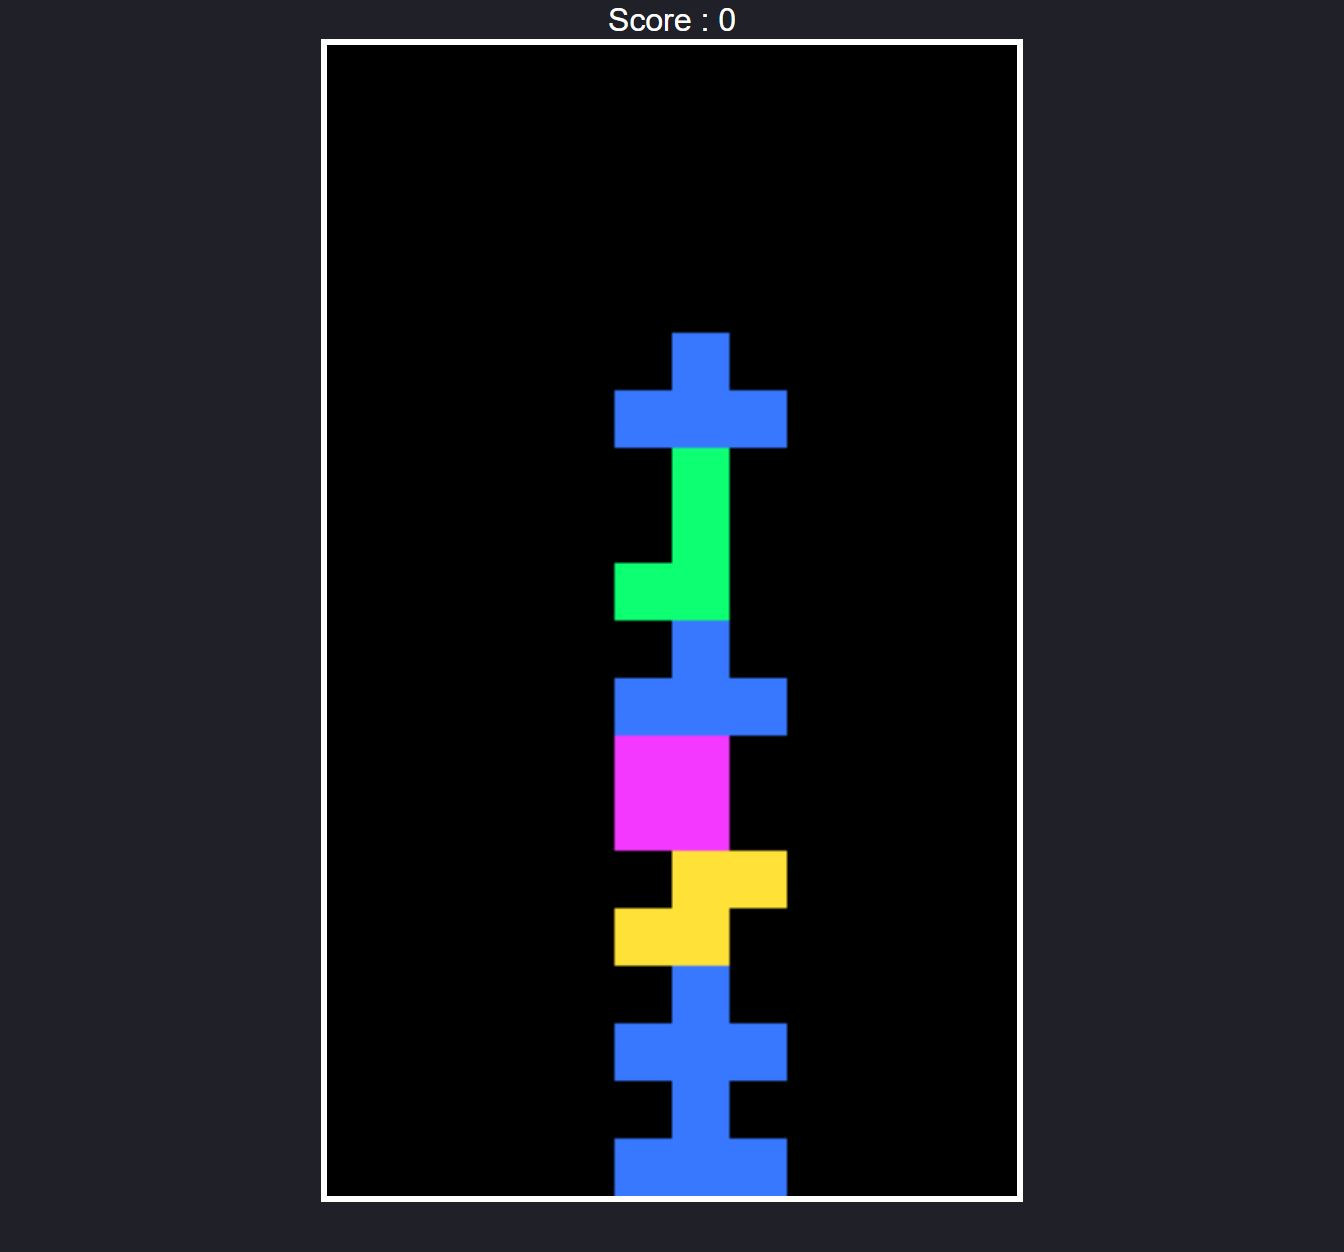
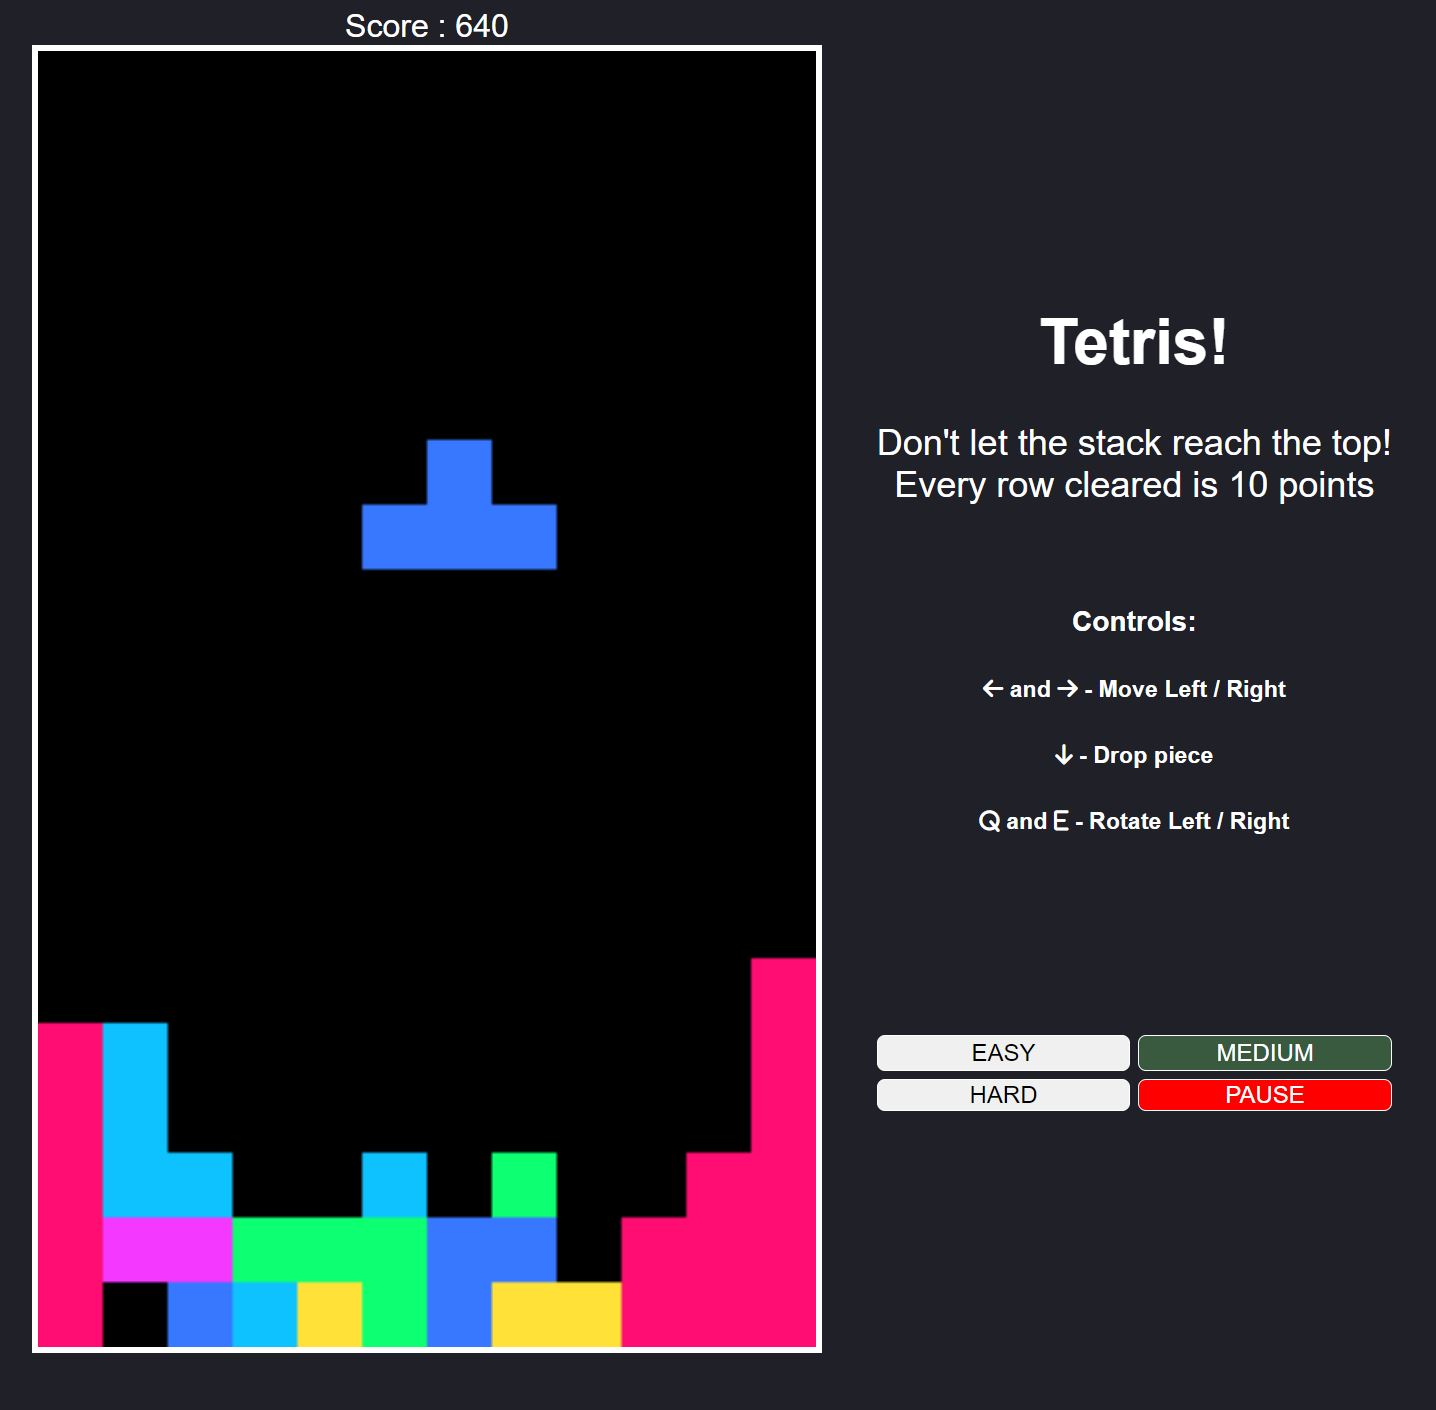
Added difficulty settings and pause button

diff --git a/Tetris/script.js b/Tetris/script.js
@@ -176,8 +176,9 @@ function playerRotate(dir) {
 }
 
 let dropCounter = 0;
-let dropInterval = 1000;
+let dropInterval = 500;
 let lastTime = 0;
+let paused = false;
 
 function update(time = 0) {
     const deltaTime = time - lastTime;
@@ -187,7 +188,9 @@ function update(time = 0) {
     }
     lastTime = time;
     draw();
-    requestAnimationFrame(update);
+    if (!paused) {
+        requestAnimationFrame(update);
+    }
 }
 
 function updateScore() {
@@ -197,14 +200,19 @@ function updateScore() {
 document.addEventListener("keydown", (event) => {
     if (event.keyCode === 37) {
         playerMove(-1);
+        //left arrow move left
     } else if (event.keyCode === 39) {
         playerMove(1);
+        //right arrow move right
     } else if (event.keyCode === 40) {
         playerDrop();
+        //down arrow move down
     } else if (event.keyCode === 81) {
         playerRotate(-1);
-    } else if (event.keyCode === 87) {
+        //Q key rotate left
+    } else if (event.keyCode === 69) {
         playerRotate(1);
+        //E key rotate right
     }
 });
 
@@ -229,3 +237,40 @@ const player = {
 playerReset();
 updateScore();
 update();
+
+const easy = document.getElementById("easy");
+const medium = document.getElementById("medium");
+const hard = document.getElementById("hard");
+const pause = document.getElementById("pause");
+
+easy.addEventListener("click", () => {
+    dropInterval = 1000;
+    easy.classList.add("active");
+    medium.classList.remove("active");
+    hard.classList.remove('active');
+});
+medium.addEventListener("click", () => {
+    dropInterval = 500;
+    easy.classList.remove("active");
+    medium.classList.add("active");
+    hard.classList.remove('active');
+});
+hard.addEventListener("click", () => {
+    dropInterval = 225;
+    easy.classList.remove("active");
+    medium.classList.remove("active");
+    hard.classList.add('active');
+});
+
+pause.addEventListener("click", () => {
+    if (pause.classList.contains("pause-active")) {
+        pause.classList.remove("pause-active");
+        pause.classList.add("pause-inactive");
+        paused = false;
+        update();
+    } else {
+        pause.classList.remove("pause-inactive");
+        pause.classList.add("pause-active");
+        paused = true;
+    }
+});

diff --git a/Tetris/index.html b/Tetris/index.html
@@ -3,13 +3,35 @@
 <head>
     <meta charset="UTF-8">
     <meta name="viewport" content="width=device-width, initial-scale=1.0">
+    <link rel="stylesheet" href="https://cdnjs.cloudflare.com/ajax/libs/font-awesome/6.5.2/css/all.min.css">
     <link rel="stylesheet" href="styles.css">
     <title>Tetris</title>
 </head>
 <body>
-    
-    <div id="score"></div>
-    <canvas id="tetris" width="240" height="400"></canvas>
+    <div class="flex-container">
+        <div class="left">
+            <div id="score"></div>
+            <canvas id="tetris" width="240" height="400"></canvas>
+        </div>
+        <div class="right">
+            <div class="header">
+                <h1>Tetris!</h1>
+                <h3>Don't let the stack reach the top!<br>Every row cleared is 10 points</h3>
+            </div>
+            <div class="controls">
+                <h4>Controls:</h4>
+                <h5><i class="fa-solid fa-arrow-left"></i> and <i class="fa-solid fa-arrow-right"></i> - Move Left / Right</h5>
+                <h5><i class="fa-solid fa-arrow-down"></i> - Drop piece</h5>
+                <h5><i class="fa-solid fa-q"></i> and <i class="fa-solid fa-e"></i> - Rotate Left / Right</h5>
+            </div>
+            <div class="buttons">
+                <button id="easy">EASY</button>
+                <button id="medium" class="active">MEDIUM</button>
+                <button id="hard">HARD</button>
+                <button id="pause" class="pause-inactive">PAUSE</button>
+            </div>
+        </div>
+    </div>
 
     <script src="script.js"></script>
 </body>

diff --git a/Tetris/styles.css b/Tetris/styles.css
@@ -10,3 +10,73 @@ canvas {
     border: solid 0.2em #fff;
     height: 90vh;
 }
+
+.flex-container {
+    display: flex;
+    align-items: center;
+    justify-content: space-between;
+}
+
+.flex-container .left {
+    margin: 0 25px 0 auto;
+}
+
+.flex-container .right {
+    margin: 0 auto 0 30px;
+}
+
+.flex-container .right .header {
+    margin-bottom: 100px;
+}
+
+.flex-container .right .header h1 {
+    font-size: 64px;
+}
+
+.flex-container .right .header h3 {
+    font-size: 36px;
+    font-weight: 300;
+}
+
+.flex-container .right .controls {
+    font-size: 28px;
+}
+
+.flex-container .right .buttons {
+    flex: 1;
+    display: grid;
+    grid-template-columns: 1fr 1fr;
+    grid-template-rows: 50% auto;
+    margin-top: 200px;
+    gap: 8px;
+}
+
+.flex-container .right .buttons button {
+    width: 100%;
+    height: 100%;
+    font-size: 24px;
+    border: solid 1px #fff;
+    border-radius: 8px;
+}
+
+.active {
+    background: #3A5A40;
+    color: #fff;
+}
+
+.flex-container .right .buttons button:not(:last-of-type):hover {
+    background: #A3B18A;
+}
+
+.pause-inactive {
+    background: lightcoral;
+}
+
+.flex-container .right .buttons button:last-of-type:hover {
+    background: pink;
+}
+
+.pause-active {
+    background: red;
+    color: #fff;
+}
